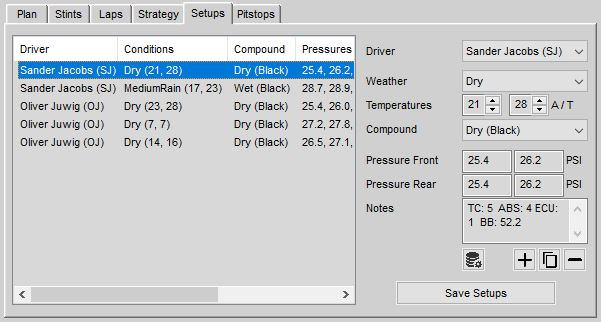
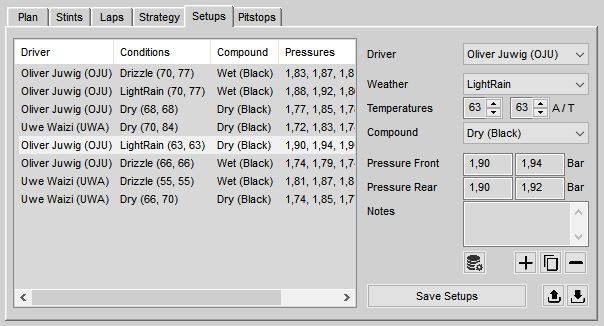
Import/Export Setups in "Race Center"

Changed region(s): [[0.0, 0.0, 1.0, 0.9938], [0.7488, 0.7764, 0.8087, 0.8385]]

diff --git a/Docs/Team Server.md b/Docs/Team Server.md
@@ -310,6 +310,8 @@ You can enter as many setups here as you like for different weather conditions, 
 
 Beside using the typical "+" and "-" buttons here to create and delete a tyre pressure setups, you can use the button with the copy icon to clone the currently selected setup. Furthermore, you can use the button with the database icon to open the ["Session Database"](https://github.com/SeriousOldMan/Simulator-Controller/wiki/Virtual-Race-Engineer#race--session-database) to look up and load pressure information recorded in previous sessions.
 
+Furthermore, you can download the current list of driver specific reference pressures to an external file and can upload them from this file, for example, to import setups into a different sesison. Finally, when you have made all your changes, push the button labeled "Save Setups", so that everything is stored on the Team Server.
+
 ### Planning a Pitstop
 
 Using the elements on the "Pitstops" tab, any team member can prepare the next pitstop for the current driver. This is a valid alternative instead of using the services of the Virtual Race Assistants in an endurance race, where currently passive team members or even a dedicated Race Engineer are part of the crew supporting the active driver.

diff --git a/Docs/Releases.md b/Docs/Releases.md
@@ -9,6 +9,9 @@
   8. "Race Center" will now also show information for planned, but not yet performed pitstops.
   9. Optimized driver selection in "Race Center" for *Assettot Corsa Comüetizione* and *rFactor 2*. Driver selection should be correct now, even when you plan and prepare a pitstop several times.
   10. "Race Center" is now compatible with pitstops planned and performed solely by the Race Engineer. Very helpful, when you are double stinting and no team mate is around.
+  11. You can now save all driver specific tyre setups from the "Race Center" to an external file and you can upload from this file to another session. See the [revised documentation](https://github.com/SeriousOldMan/Simulator-Controller/wiki/Team-Server#managing-driver-specific-tyre-pressures) for more information.
+  12. New car models for "Setup Advisor":
+      - Assetto Corsa:
 
 ## 4.5.6.0-release 01/20/23 (planned)
   1. Minor bugfixes, as always

diff --git a/Docs/Sidebar.md b/Docs/Sidebar.md
@@ -177,6 +177,7 @@
     - [Data Analysis](https://github.com/SeriousOldMan/Simulator-Controller/wiki/Team-Server#data-analysis)
     - [Strategy Handling](https://github.com/SeriousOldMan/Simulator-Controller/wiki/Team-Server#strategy-handling)
     - [Session & Stint Planning](https://github.com/SeriousOldMan/Simulator-Controller/wiki/Team-Server#session--stint-planning)
+	- [Driver specific tyre pressures](https://github.com/SeriousOldMan/Simulator-Controller/wiki/Team-Server#managing-driver-specific-tyre-pressures)
     - [Planning a Pitstop](https://github.com/SeriousOldMan/Simulator-Controller/wiki/Team-Server#planning-a-pitstop)
   - [Server Administration](https://github.com/SeriousOldMan/Simulator-Controller/wiki/Team-Server#server-administration)
   - [How it works](https://github.com/SeriousOldMan/Simulator-Controller/wiki/Team-Server#how-it-works)
